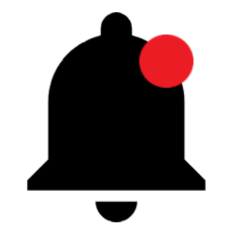
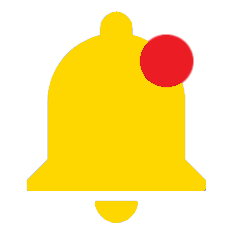
update notice

diff --git a/frontend/src/App.vue b/frontend/src/App.vue
@@ -80,9 +80,10 @@
                 :to="{ name: 'notice' }"
               >
                 <img
+                  class="notice-bell"
                   src="@/assets/images/bell.png"
                   alt="알림"
-                  style="width:24px; height:24px; padding-top:5px; margin-right:14px;"
+                  style="width:24px; height:24px; padding-top:5px; margin-right:14px; color:;"
                 />
               </router-link>
               <router-link v-else :to="{ name: 'notice' }">
@@ -91,6 +92,7 @@
                   alt="알림"
                   style="width:24px; height:24px; padding-top:3px; margin-right:14px;"
                 />
+                
               </router-link>
             </div>
             <div v-else>
@@ -99,6 +101,7 @@
                 :to="{ name: 'noticeUser' }"
               >
                 <img
+                  class="notice-bell"
                   src="@/assets/images/bell.png"
                   alt="알림"
                   style="width:24px; height:24px; padding-top:5px; margin-right:14px;"
@@ -500,6 +503,7 @@ export default {
   color: red;
 }
 .icon-box {
+  position: relative;
   display: flex;
   flex-direction: row;
   align-items: center;
@@ -549,6 +553,19 @@ export default {
   top: 0%;
   left: 0%;
 }
-// #app {
-// }
+.notice-bell{
+  transform-origin: top;
+  animation: bell 2s infinite linear;
+}
+@keyframes bell {
+  0%, 50%{
+    transform: rotate(0deg);
+	}
+  5%, 15%, 25%, 35%, 45% {
+    transform: rotate(13deg);
+  }
+  10%, 20%, 30%, 40% {
+    transform: rotate(-13deg);
+  }
+}
 </style>

diff --git a/frontend/src/views/shopping/StoreView.vue b/frontend/src/views/shopping/StoreView.vue
@@ -453,5 +453,16 @@ div {
   height: 38px;
   width: 40px;
 }
+.bi-heart-fill{
+  animation: heart 0.5s linear;
+}
+@keyframes heart{
+  0%{
+    transform: rotate(0deg) scale(1.3);
+  }
+  100%{
+    transform: rotate(0deg) scale(1);
+  }
+}
 
 </style>
